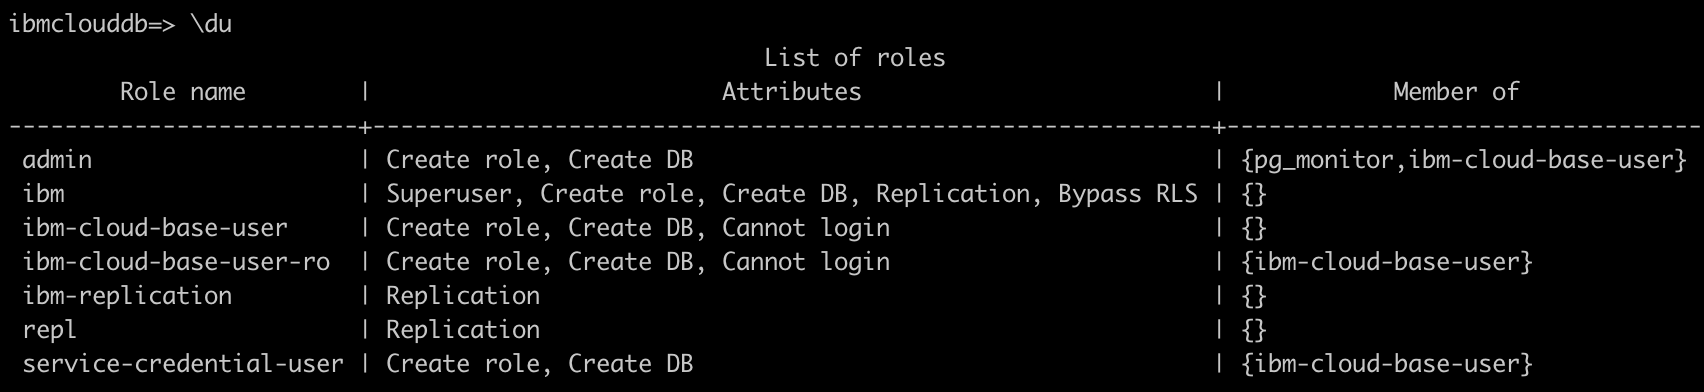
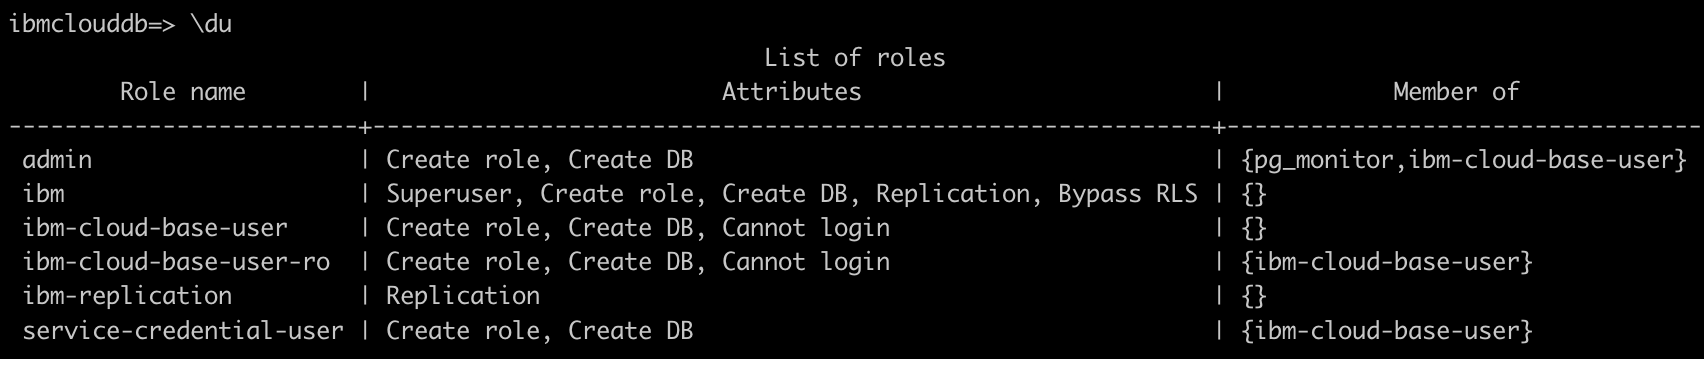
updates for compose/compose#15206

Changed region(s): [[0.0, 0.7959, 1.0, 1.0]]

diff --git a/howto-resources-scaling.md b/howto-resources-scaling.md
@@ -24,14 +24,14 @@ You can manually adjust the amount of resources available to your {{site.data.ke
 
 ## Resource Breakdown
 
-{{site.data.keyword.databases-for-enterprisedb}} deployments have three data members in a cluster, and resources are allocated to all members equally. For example, the minimum storage of a {{site.data.keyword.databases-for-enterprisedb}} deployment is 20480 MB per member, which equates to an initial size of 61440 MB. The minimum RAM for a {{site.data.keyword.databases-for-enterprisedb}} deployment is 1028 MB per member, which equates to an initial allocation of 3084 MB.
+{{site.data.keyword.databases-for-enterprisedb}} deployments have three data members in a cluster, and resources are allocated to all members equally. For example, the minimum storage of a {{site.data.keyword.databases-for-enterprisedb}} deployment is 20480 MB per member, which equates to an initial size of 61440 MB. The minimum RAM for a {{site.data.keyword.databases-for-enterprisedb}} deployment is 1028 MB per member, which equates to an initial allocation of 3084 MB. The minimum dedicated cores per deployment is 3 per member, for an initial allocation of 9. 
 
 Billing is based on the _total_ amount of resources that are allocated to the service.
 {: .tip}
 
 ### Disk
 
-Your disk allocation has to be enough to store all of your data. Your data is replicated to both data members so the total amount of disk you use is at least twice the size of your data set. 
+Your disk allocation must be enough to store all of your data. Your data is replicated to all data members so the total amount of disk you use is at least twice the size of your data set. 
 
 Disk allocation also affects the performance of the disk, with larger disks having higher performance. Baseline Input-Output Operations per second (IOPS) performance for disk is 10 IOPS for each GB. Scale disk to increase the IOPS your deployment can handle.
 
@@ -40,11 +40,11 @@ You cannot scale down storage.
 
 ### RAM
 
-If you find that your deployment is suffering from performance issues due to a lack of memory, you can scale the amount of RAM allocated to it. The amount of memory you allocate to your deployment is split between both members. Adding memory to the total allocation adds memory to both members equally.
+If you find that your deployment is suffering from performance issues due to a lack of memory, you can scale the amount of RAM allocated to it. The amount of memory you allocate to your deployment is split between all members. Adding memory to the total allocation adds memory to all members equally.
 
 [`work_mem`](https://www.postgresql.org/docs/current/runtime-config-resource.html#GUC-WORK-MEM), [`maintenance_work_mem`](https://www.postgresql.org/docs/current/runtime-config-resource.html#GUC-MAINTENANCE-WORK-MEM), and [`effective_cache_size`](https://www.postgresql.org/docs/current/runtime-config-query.html#GUC-EFFECTIVE-CACHE-SIZE) are auto-tuned based on the deployment's total memory. They are also set when you scale memory on your deployment. When you scale, the values are adjusted without outage to the running deployment.
 
-The amount of memory allocated to the database's shared buffer pool is **not** adjusted automatically when you scale your deployment. Its recommended to be set to 25% of the deployment's total memory. You can manually tune the shared buffer pool through the [`shared_buffer`](https://www.postgresql.org/docs/current/runtime-config-resource.html#GUC-SHARED-BUFFERS) setting in your [{{site.data.keyword.databases-for-enterprisedb}}'s configuration](/docs/databases-for-enterprisedb?topic=databases-for-enterprisedb-changing-configuration). It is not auto-tuned because changing the `shared_buffer` requires a database restart.
+The amount of memory allocated to the database's shared buffer pool is **not** adjusted automatically when you scale your deployment. It is recommended to be set to 25% of the deployment's total memory. You can manually tune the shared buffer pool through the [`shared_buffer`](https://www.postgresql.org/docs/current/runtime-config-resource.html#GUC-SHARED-BUFFERS) setting in your [{{site.data.keyword.databases-for-enterprisedb}}'s configuration](/docs/databases-for-enterprisedb?topic=databases-for-enterprisedb-changing-configuration). It is not auto-tuned because changing the `shared_buffer` requires a database restart.
 
 ### Dedicated Cores
 
@@ -52,23 +52,24 @@ You can enable or increase the CPU allocation to the deployment. With dedicated 
 
 ## Scaling Considerations
 
+- With a minimum of 3 members, allocation minimums begin with 1 Gb RAM, 20 GB Disk, and 3 dedicated cores per member.  
 - Scaling your deployment up might cause your databases to restart. If you scale RAM or CPU and your deployment needs to be moved to a host with more capacity, then the databases are restarted as part of the move.
 
 - Scaling down RAM or CPU does not trigger database restarts.
 
-- Disk can not be scaled down.
+- Disk cannot be scaled down.
 
 - A few scaling operations can be more long running than others. Enabling dedicated cores moves your deployment to its own host and can take longer than just adding more cores. Similarly, drastically increasing CPU, RAM, or Disk can take longer than smaller increases to account for provisioning more underlying hardware resources.
 
 - Scaling operations are logged in [Activity Tracker](/docs/databases-for-enterprisedb?topic=cloud-databases-activity-tracker).
 
-- If you find consistent trends in resource usage or would like to set up scaling when certain resource thresholds are reached, checkout enabling [autoscaling](/docs/databases-for-enterprisedb?topic=databases-for-enterprisedb-autoscaling) on your deployment.
+- If you find consistent trends in resource usage or would like to set up scaling when certain resource thresholds are reached, consider enabling [autoscaling](/docs/databases-for-enterprisedb?topic=databases-for-enterprisedb-autoscaling) on your deployment.
 
 ## Scaling in the UI
 
 A visual representation of your data members and their resource allocation is available on the _Resources_ tab of your deployment's _Manage_ page. 
 
-![The Scale Resources Panel in _Settings_](images/settings-scaling.png)
+![The Scale Resources Pane in _Settings_](images/settings-scaling.png)
 
 Adjust the slider to increase or decrease the resources that are allocated to your service. The slider controls how much memory or disk is allocated per member. The UI shows the total allocated memory or disk for the position of the slider. Click **Scale** to trigger the scaling operations and return to the dashboard overview. 
 
@@ -87,7 +88,7 @@ ibmcloud cdb deployment-groups example-deployment
 This produces the output,
 ```
 Group   member
-Count   2
+Count   3
 |
 +   Memory
 |   Allocation              3072mb
@@ -106,7 +107,7 @@ Count   2
 +   Disk
 |   Allocation              61440mb
 |   Allocation per member   20480mb
-|   Minimum                 10240mb
+|   Minimum                 20480mb
 |   Step Size               1024mb
 |   Adjustable              true
 ```

diff --git a/howto-migration-oracle.md b/howto-migration-oracle.md
@@ -23,21 +23,21 @@ Details how to set up and run a migration from a local Oracle Database to an {{s
 
 
 ## Prerequisites
-
+EMP is managed by an external party, [EnterpriseDB](https://www.enterprisedb.com/). For more information review the [EnterpriseDB Migration Portal User Guide](https://www.enterprisedb.com/edb-docs/p/edb-postgres-migration-portal). 
 - Create an EnterpriseDB account [here](https://www.enterprisedb.com/) 
 - Request EnterpriseDB repo access [here](https://info.enterprisedb.com/rs/069-ALB-339/images/Repository%20Access%2004-09-2019.pdf?_ga=2.254315016.140796928.1589217151-186337169.1584631506)
-- Provision an {{site.data.keyword.databases-for-enterprisedb_full}}
+- Provision an {{site.data.keyword.databases-for-enterprisedb_full}} instance
 
 ## Oracle to {{site.data.keyword.databases-for-enterprisedb}} Migration by using MTK only
-You can run schema extraction, schema migration, and data migration by using MTK only. To do that you need to:
+You can run schema extraction, schema migration, and data migration by using Migration Toolkit (MTK) only. To do that you need to:
 1. Install and setup MTK locally following the steps noted under the heading: [`Install EnterpriseDB Migration toolkit`](###install-enterprisedb-migrationtoolkit)
 2. Follow the MTK command options for `Import Options` and `Schema Creation` to extract and migrate Oracle schema and data [here](https://www.enterprisedb.com/edb-docs/d/edb-postgres-migration-toolkit/user-guides/user-guide/52.0.3/mtk_command_options.html)
 3. MTK also supports offline migration for both schema and data [here](https://www.enterprisedb.com/edb-docs/d/edb-postgres-migration-toolkit/user-guides/user-guide/52.0.3/mtk_command_options.html#offline-migration-options)
 
 ## Oracle to {{site.data.keyword.databases-for-enterprisedb}} Migration by using EMP and MTK
 
-### Extract the Oracle schema by using the Enterisedb DDL Extractor
-1. Log in to the EnterpriseDB migration portal [here](https://migration.enterprisedb.com/)
+### Extract the Oracle schema by using the EnteriseDB DDL Extractor
+1. Log in to the EnterpriseDB migration portal (EMP) [here](https://migration.enterprisedb.com/)
 2. Click `Portal Wiki`
 3. Follow the steps in `DDL Extractor guide` section
 4. After a successful attempt, a file like `_gen_ot_ddls_200511173723.sql` is created in the specified path
@@ -81,7 +81,7 @@ Note: MTK by default includes the `edb jdbc driver`, but to connect to an Oracle
 
 ### Run MTK to migrate data from Oracle to edb-migration formation
 1. Edit `toolkit.properties` file to set up source and target connections. The file is available at `/usr/edb/migrationtoolkit/etc/toolkit.properties`. [More about toolkit.properties](https://www.enterprisedb.com/edb-docs/d/edb-postgres-migration-toolkit/user-guides/user-guide/53.0.0/building_toolkit.properties_file.html)
-2. Following the set-up steps, the `toolkit.properties` file now resembles:
+2. Following the setup steps, the `toolkit.properties` file now resembles:
     ```text
         SRC_DB_URL=jdbc:oracle:thin:@localhost:1521:ORCL
         SRC_DB_USER=ot

diff --git a/howto-read-replica.md b/howto-read-replica.md
@@ -38,7 +38,7 @@ A read-only replica is set up to replicate all of your data from the leader depl
 
 - The read-only replica does not participate in master/follower elections for the leader cluster and failover to the read-only replica is not automated. Promotion of the read-only replica to a full deployment is a manual, user-initiated task.
 
-- The minimum size of a read-only replica is 2 GB RAM and 40 GB of disk. This is true even if your leader deployment is smaller.
+- The minimum size of a read-only replica is 3 GB RAM and 60 GB of disk. This is true even if your leader deployment is smaller.
 
 - Read-only replicas do not auto-scale to match the leader. If the amount of data you store outgrows the disk that is allocated to your deployments, scale the disk on the read-only replicas and then the leader. Scaling the read-only replica first ensures that you do not run out of space on the read-only replicas. If you scaled the leader's disk for performance and not for space, it is not necessary to scale the read-only replicas.
 
@@ -72,8 +72,8 @@ For example, to provision a read-only replica through the CLI,
 ibmcloud resource service-instance-create <replica_name> databases-for-enterprisedb standard <region> \
 -p \ '{
   "remote_leader_id": "crn:v1:bluemix:public:databases-for-enterprisedb:us-south:a/54e8ffe85dcedf470db5b5ee6ac4a8d8:1b8f53db-fc2d-4e24-8470-f82b15c71819::",
-  "members_memory_allocation_mb": "2048",
-  "members_disk_allocation_mb": "10240"
+  "members_memory_allocation_mb": "3072",
+  "members_disk_allocation_mb": "61440"
 }'
 ```
 
@@ -89,12 +89,12 @@ curl -X POST \
     "resource_group": "<your_resource_group_id>",
     "resource_plan_id": "databases-for-enterprisedb-standard",
     "remote_leader_id": "crn:v1:bluemix:public:databases-for-enterprisedb:us-south:a/54e8ffe85dcedf470db5b5ee6ac4a8d8:1b8f53db-fc2d-4e24-8470-f82b15c71819::",
-    "members_memory_allocation_mb": "2048",
-    "members_disk_allocation_mb": "10240"
+    "members_memory_allocation_mb": "3072",
+    "members_disk_allocation_mb": "61440"
   }'
 ```
 
-For both the CLI and API commands, you have to specify both the RAM and disk amounts, keeping in mind the minimum size is 2 GB RAM and 10 GB disk. You can optionally specify whether the read-only replica uses public or private endpoints. You are not able to specify a version for the read-only replica. The version is automatically set to the same major version as the leader deployment.
+For both the CLI and API commands, you have to specify both the RAM and disk amounts, keeping in mind the minimum size is 3 GB RAM and 60 GB disk. You can optionally specify whether the read-only replica uses public or private endpoints. You are not able to specify a version for the read-only replica. The version is automatically set to the same major version as the leader deployment.
 
 ## The Read-only Replica
 

diff --git a/learn-security-compliance.md b/learn-security-compliance.md
@@ -36,12 +36,6 @@ subcollection: databases-for-enterprisedb
 - If you deploy to an {{site.data.keyword.cloud_notm}} Single-Zone Region (SZR), each database node resides on a different host in the datacenter. 
 - If you deploy to an {{site.data.keyword.cloud_notm}} Multi-Zone Region (MZR), the nodes are spread over the region's availability zone locations. 
 
-## SOC 2 Type 2 Certification
-
-{{site.data.keyword.IBM_notm}} provides a Service Organization Controls (SOC) 2 Type 2 report for {{site.data.keyword.databases-for-enterprisedb}}. The reports evaluate IBM's operational controls according to the criteria set by the American Institute of Certified Public Accountants (AICPA) Trust Services Principles. The Trust Services Principles define adequate control systems and establish industry standards for service providers such as IBM Cloud to safeguard their customers' data and information.
-
-You can request an SOC 2 Type 2 report from the customer portal or contact your sales representative. Alternatively, you can open a support ticket with [IBM Cloud support](https://cloud.ibm.com/unifiedsupport/supportcenter){:new_window}
-
 ## ISO 27017, ISO 27018
 
 {{site.data.keyword.databases-for-enterprisedb}} conforms to the guidelines for information security controls applicable to the provision and use of cloud services defined in [ISO 27017](https://www.iso.org/standard/43757.html) and [ISO 27018](https://www.iso.org/standard/76559.html).
@@ -54,10 +48,6 @@ If you have an account with IBM Cloud, your personal data is held by {{site.data
 {{site.data.keyword.databases-for-enterprisedb}} processes limited client Personal Information (PI) in the course of running the service and optimizing the user experience. 
 
 {{site.data.keyword.databases-for-enterprisedb}} provides a [Data Sheet Addendum (DSA)](https://www.ibm.com/software/reports/compatibility/clarity-reports/report/html/softwareReqsForProduct?deliverableId=CD09D2E06DC811E8A0B560E89C071ECC){:new_window} with its policies as a Data Processor regarding content and data protection. 
-
-## HIPAA
-
-{{site.data.keyword.databases-for-enterprisedb}} meets the required {{site.data.keyword.IBM_notm}} controls that are commensurate with the Health Insurance Portability and Accountability Act of 1996 (HIPAA) Security and Privacy Rule requirements. These requirements include the appropriate administrative, physical, and technical safeguards required of Business Associates in 45 CFR Part 160 and Subparts A and C of Part 164. HIPAA must be requested at the time of provisioning and requires a representative to sign a Business Associate Addendum (BAA) agreement with {{site.data.keyword.IBM_notm}}.
 
 ## Terms
 

diff --git a/howto-managing-connections.md b/howto-managing-connections.md
@@ -100,9 +100,9 @@ Alternatively, you can use a third-party tool such as [PgBouncer](https://pgboun
 
 Next, change the value of `max_connections` on your deployment. To make permanent changes to the [{{site.data.keyword.databases-for-enterprisedb}} configuration](/docs/databases-for-enterprisedb?topic=databases-for-enterprisedb-changing-configuration#changing-configuration), you want to use the {{site.data.keyword.databases-for}} [cli-plugin](/docs/databases-cli-plugin?topic=databases-cli-plugin-cdb-reference#deployment-configuration) or [API](https://{DomainName}/apidocs/cloud-databases-api#change-your-database-configuration) to write the changes to the configuration file for your deployment. 
 
-For example, to raise `max_connections` to 215, it might be a good idea to scale your deployment to at least 2 GB of RAM per data member, for a total of 4 GB of RAM for your deployment. Once the scaling operation has finishes, then set the connection limit. In the CLI,
+For example, to raise `max_connections` to 215, it might be a good idea to scale your deployment to at least 2 GB of RAM per data member, for a total of 6 GB of RAM for your deployment. Once the scaling operation has finishes, then set the connection limit. In the CLI,
 ```
-ibmcloud cdb deployment-groups-set example-deployment member --memory 4096
+ibmcloud cdb deployment-groups-set example-deployment member --memory 6144
 
 ibmcloud cdb deployment-configuration example-deployment '{"configuration":{"max_connections":215}}'
 ```
@@ -113,7 +113,7 @@ curl -X PATCH `https://api.{region}.databases.cloud.ibm.com/v4/ibm/deployments/{
 -H "Authorization: Bearer $APIKEY" \
 -H "Content-Type: application/json" \
 -d '{"memory": {
-        "allocation_mb": 4096
+        "allocation_mb": 6144
       }
     }'
 

diff --git a/howto-autoscaling.md b/howto-autoscaling.md
@@ -37,7 +37,7 @@ Memory - Memory autoscaling is based on Disk I/O utilization in order to provide
 
 Disk - Disk autoscaling can scale when either disk usage reaches a certain threshold, Disk I/O utilization reach a certain threshold, or both. (The "or" in the UI operates as an `inclusive or`, `|`, `v`.) The amount of IOPS available to your deployment increases with disk size at a ratio of 10 IOPS for each GB.
 
-The resource numbers refer to each database node in a deployment. For example, there are two data members in a {{site.data.keyword.databases-for-enterprisedb}} deployment and if the deployment is scaled with 20 GB of disk and 1 GB of RAM, that means each member gets 20 GB of disk and 1 GB of RAM. The total resources added to your deployment is 40 GB of disk and 2 GB of RAM.
+The resource numbers refer to each database node in a deployment. For example, there are three data members in a {{site.data.keyword.databases-for-enterprisedb}} deployment and if the deployment is scaled with 20 GB of disk and 1 GB of RAM, that means each member gets 20 GB of disk and 1 GB of RAM. The total resources added to your deployment is 60 GB of disk and 3 GB of RAM.
 
 ## Autoscaling Considerations
 

diff --git a/howto-user-management.md b/howto-user-management.md
@@ -77,10 +77,6 @@ Users that are created directly from the API and CLI do not appear in _Service C
 
 The `ibm-cloud-base-user-ro` manages privileges for users that are created to access read-only replicas. More information can be found on the [Configuring Read-only Replicas](/docs/databases-for-enterprisedb?topic=databases-for-enterprisedb-read-only-replicas) page.
 
-## The `repl` user
-
-The `repl` user has Replication privileges and is used if you enable the [`wal2json` plugin](/docs/databases-for-enterprisedb?topic=databases-for-enterprisedb-wal2json) on your deployment. In the process of enabling `wal2json`, you set the `repl` user's password, which allows the `wal2json` plugin to use it.
-
 ## Other `ibm` Users
 
 If you run the `\du` command with your admin account, you might notice users that are named `ibm`,  `ibm-cloud-base-user`, and `ibm-replication`.

diff --git a/howto-pitr.md b/howto-pitr.md
@@ -25,7 +25,7 @@ The _Backups_ tab of your deployment's UI keeps all your PITR information under 
 
 ![PITR section of the Backups tab](images/pitr-backups-tab.png)
 
-Included information is the earliest time for a PITR. To discover the earliest recovery point through the CLI, use the [`cdb enterprisedb earliest-pitr-timestamp`](/docs/databases-cli-plugin?topic=databases-cli-plugin-cdb-reference#postgresql-earliest-pitr-timestamp) command.
+Included information is the earliest time for a PITR. To discover the earliest recovery point through the CLI, use the [`cdb postgresql earliest-pitr-timestamp`](/docs/databases-cli-plugin?topic=databases-cli-plugin-cdb-reference#postgresql-earliest-pitr-timestamp) command.
 ```
 ibmcloud cdb enterprisedb earliest-pitr-timestamp <deployment name or CRN>
 ```

diff --git a/connecting-external.md b/connecting-external.md
@@ -220,5 +220,7 @@ Ruby on Rails|Rails|[Rails Guide](http://edgeguides.rubyonrails.org/configuring.
 C#|`ODBC`|[Link](https://wiki.postgresql.org/wiki/Using_Microsoft_.NET_with_the_PostgreSQL_Database_Server_via_ODBC)
 Go|`pq`|[Link](https://godoc.org/github.com/lib/pq)
 Node|`node-postgres`|[Link](https://node-postgres.com/)
+JDBC| EDB Postgres JDBC Connector|[JDBC Guide](https://www.enterprisedb.com/edb-docs/d/jdbc-connector/user-guides/jdbc-guide/42.2.8.1/using_the_advanced_server_jdbc_connector_with_java_applications.html)
 {: caption="Table 2. PostgreSQL drivers" caption-side="top"}
+
 
